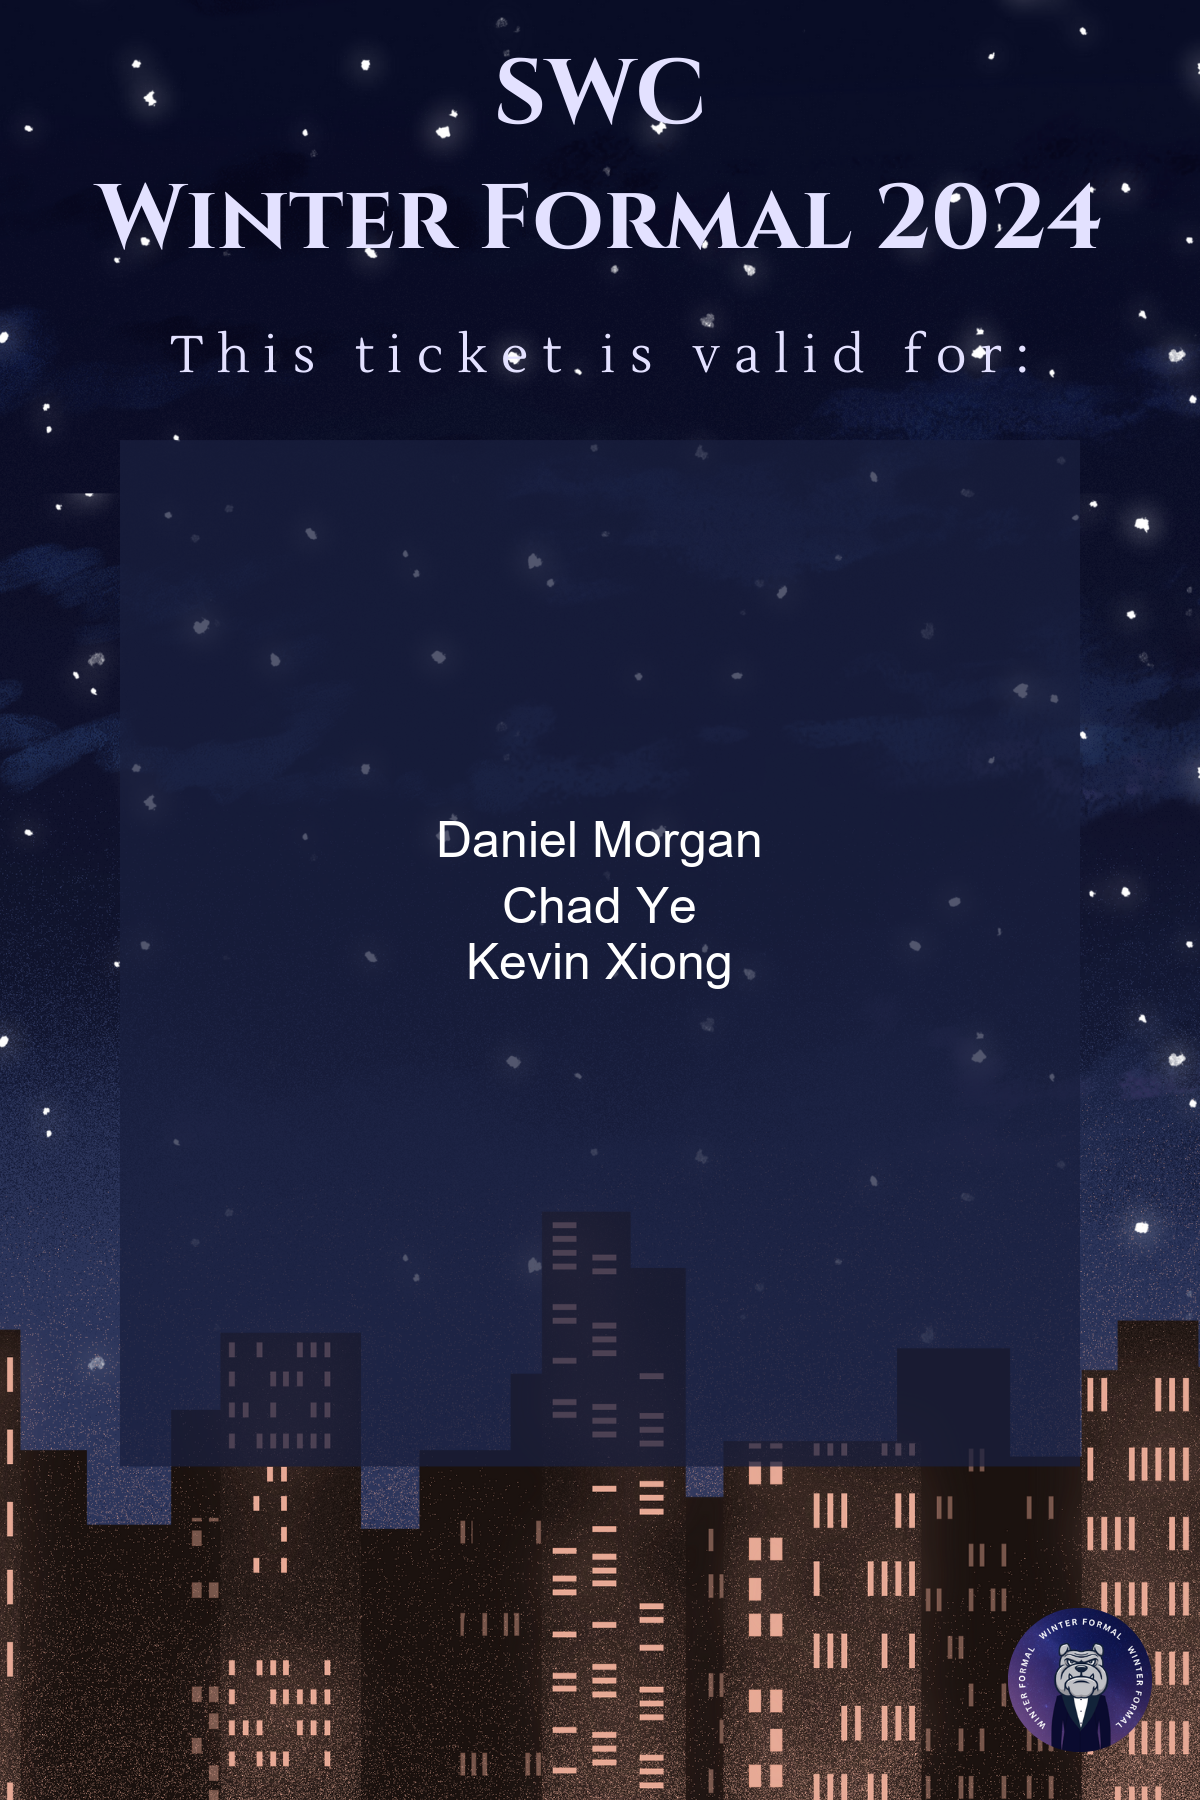
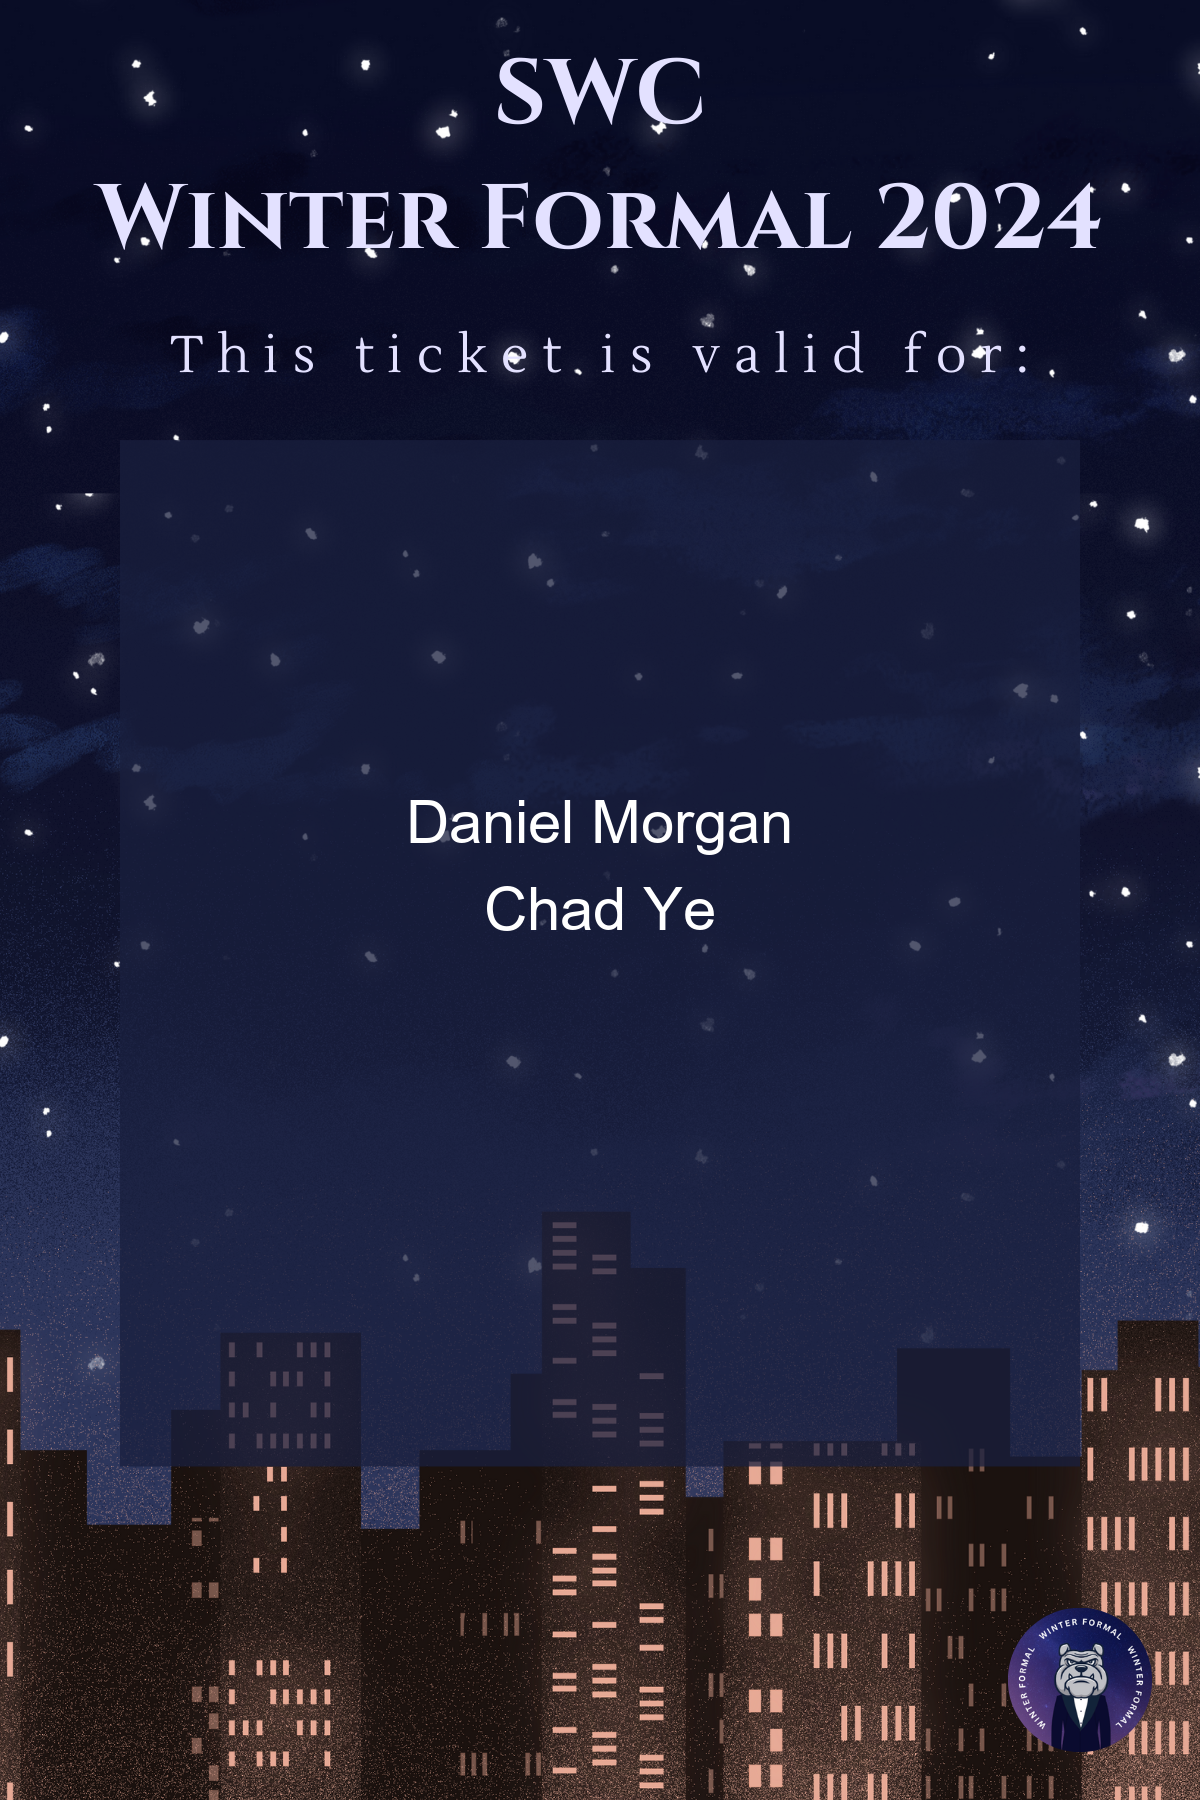
added more guest options

Changed region(s): [[0.3392, 0.4356, 0.6475, 0.56]]

diff --git a/base code.py b/base code.py
@@ -20,7 +20,7 @@ SMTP_SERVER = "smtp.gmail.com"  # Adjust to your SMTP server
 SMTP_PORT = 587
 EMAIL_USER = "swcpromcommittee@gmail.com"  # Replace with your email
 EMAIL_PASS = "ijbr jqsa vtak xhkq"  # Replace with your email password
-DEFAULT_FROM_EMAIL='swcpromcommittee@gmail.com'
+DEFAULT_FROM_EMAIL = 'swcpromcommittee@gmail.com'
 
 # Ensure output directory exists
 os.makedirs("generated_images", exist_ok=True)
@@ -35,9 +35,18 @@ for index, row in data.iterrows():
     your_email = row.iloc[4]  # Column E (index 4)
     cbe_email_1 = row.iloc[7]  # Column H (index 7)
     cbe_email_2 = row.iloc[9]  # Column J (index 9)
+    guest_name_3 = row.iloc[10]  # Column K
+    cbe_email_3 = row.iloc[11]   # Column L
+    guest_name_4 = row.iloc[12]  # Column M
+    cbe_email_4 = row.iloc[13]  # Column N
+    guest_name_5 = row.iloc[14]  # Column O
+    cbe_email_5 = row.iloc[15]  # Column P
 
     guest_name_1 = guest_name_1 if pd.notnull(guest_name_1) else ""
     guest_name_2 = guest_name_2 if pd.notnull(guest_name_2) else ""
+    guest_name_3 = guest_name_3 if pd.notnull(guest_name_3) else ""
+    guest_name_4 = guest_name_4 if pd.notnull(guest_name_4) else ""
+    guest_name_5 = guest_name_5 if pd.notnull(guest_name_5) else ""
 
     # Load your pre-designed image
     template_image_path = r"C:\Users\tatho\Downloads\demo ticket template.png"  # Replace with your template's path
@@ -50,9 +59,9 @@ for index, row in data.iterrows():
     draw = ImageDraw.Draw(template_img)
 
     # Define text properties
-    FONT_SIZE = 50  # Adjust this to make the font bigger
-    LINE_SPACING = 10  # Adjust this for more space between lines
-    text = f"{first_name} {last_name}\n{guest_name_1}\n{guest_name_2}"
+    FONT_SIZE = 60  # Adjust this to make the font bigger
+    LINE_SPACING = 20  # Adjust this for more space between lines
+    text = f"{first_name} {last_name}\n{guest_name_1}\n{guest_name_2}\n{guest_name_3}\n{guest_name_4}\n{guest_name_5}"
     font = ImageFont.truetype(FONT_PATH, FONT_SIZE)
 
     # Calculate the total height of the text block, including line spacing
@@ -81,7 +90,10 @@ for index, row in data.iterrows():
     recipients = [
         str(your_email) if pd.notnull(your_email) and your_email != "" else None,
         str(cbe_email_1) if pd.notnull(cbe_email_1) and cbe_email_1 != "" else None,
-        str(cbe_email_2) if pd.notnull(cbe_email_2) and cbe_email_2 != "" else None
+        str(cbe_email_2) if pd.notnull(cbe_email_2) and cbe_email_2 != "" else None,
+        str(cbe_email_3) if pd.notnull(cbe_email_3) and cbe_email_3 != "" else None,
+        str(cbe_email_4) if pd.notnull(cbe_email_4) and cbe_email_2 != "" else None,
+        str(cbe_email_5) if pd.notnull(cbe_email_5) and cbe_email_3 != "" else None
     ]
 
     # Remove any None values (invalid email addresses)
@@ -98,8 +110,8 @@ for index, row in data.iterrows():
     msg = MIMEMultipart()
     msg["From"] = EMAIL_USER
     msg["To"] = ", ".join(recipients)
-    msg["Subject"] = "Your Ticket (Demo)"
-    body = "nvm guys i might have figured out how to make ticket pretty #womeninSTEM"
+    msg["Subject"] = "Reply w/ thumbs up on insta - Your Ticket (Demo)"
+    body = "Good Morning! If you get this, reply with thumbs up on insta please #womeninSTEM"
     msg.attach(MIMEText(body, "plain"))
 
     # Attach the image
